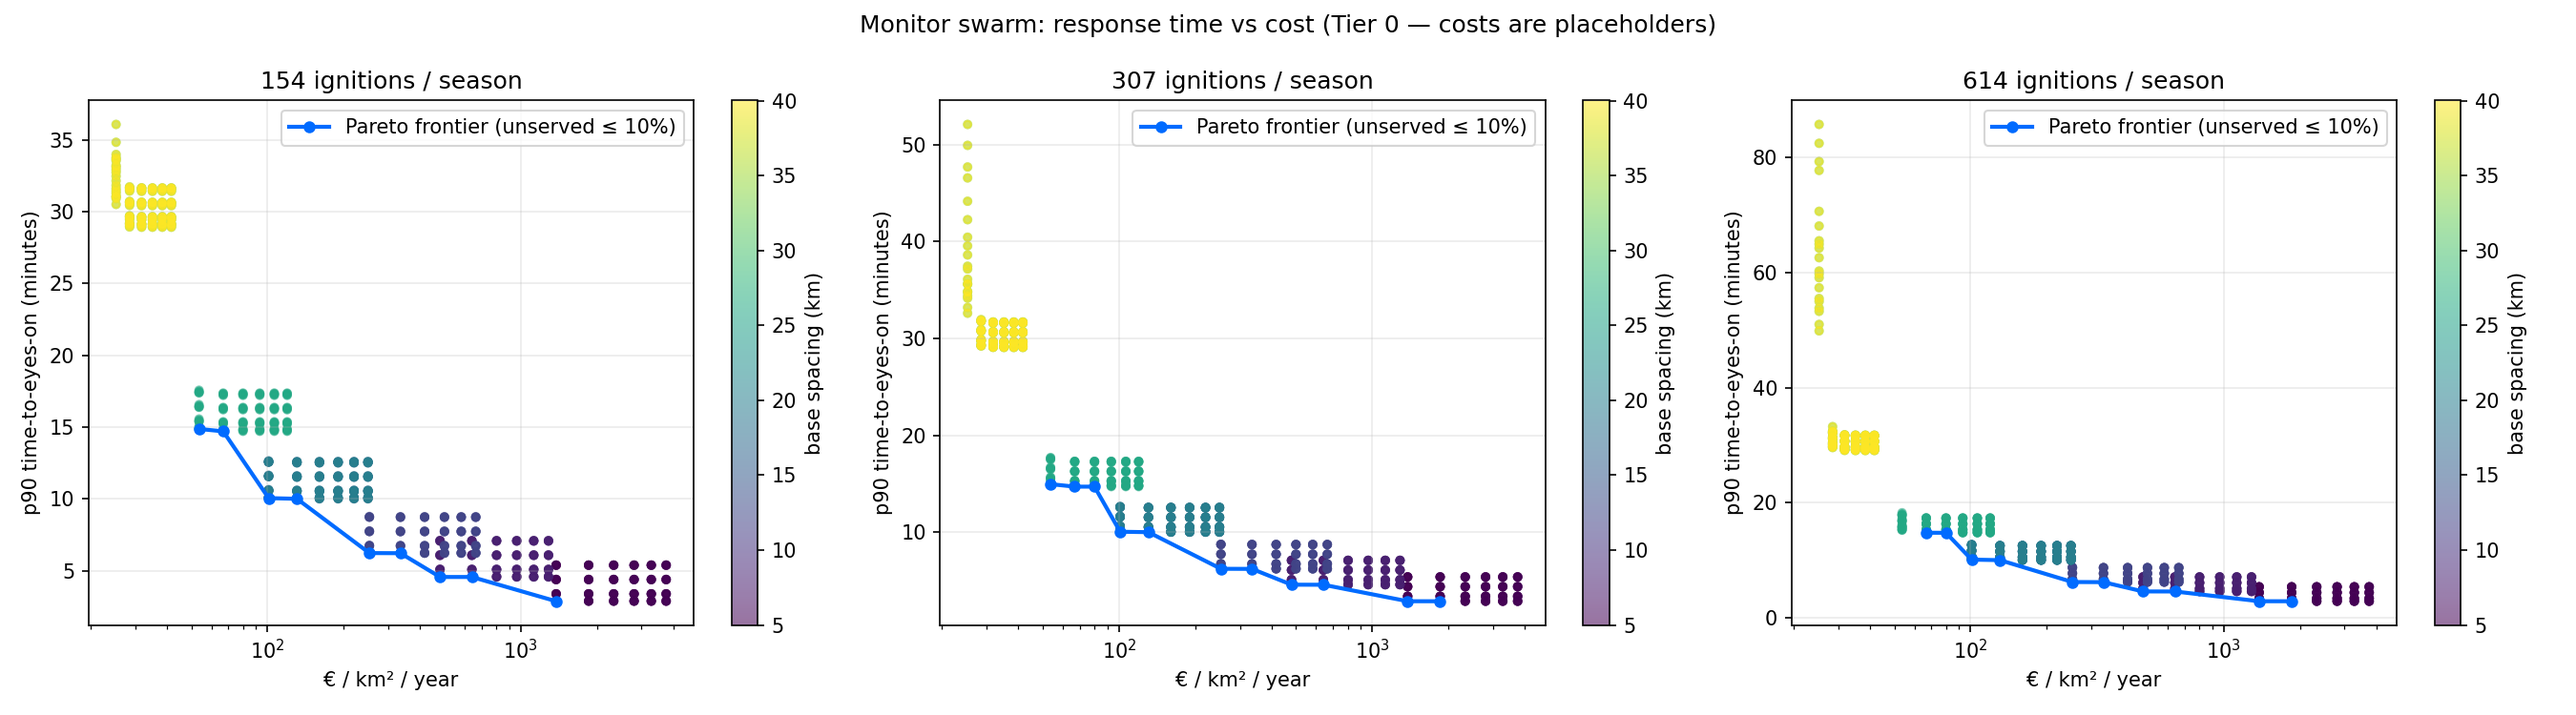
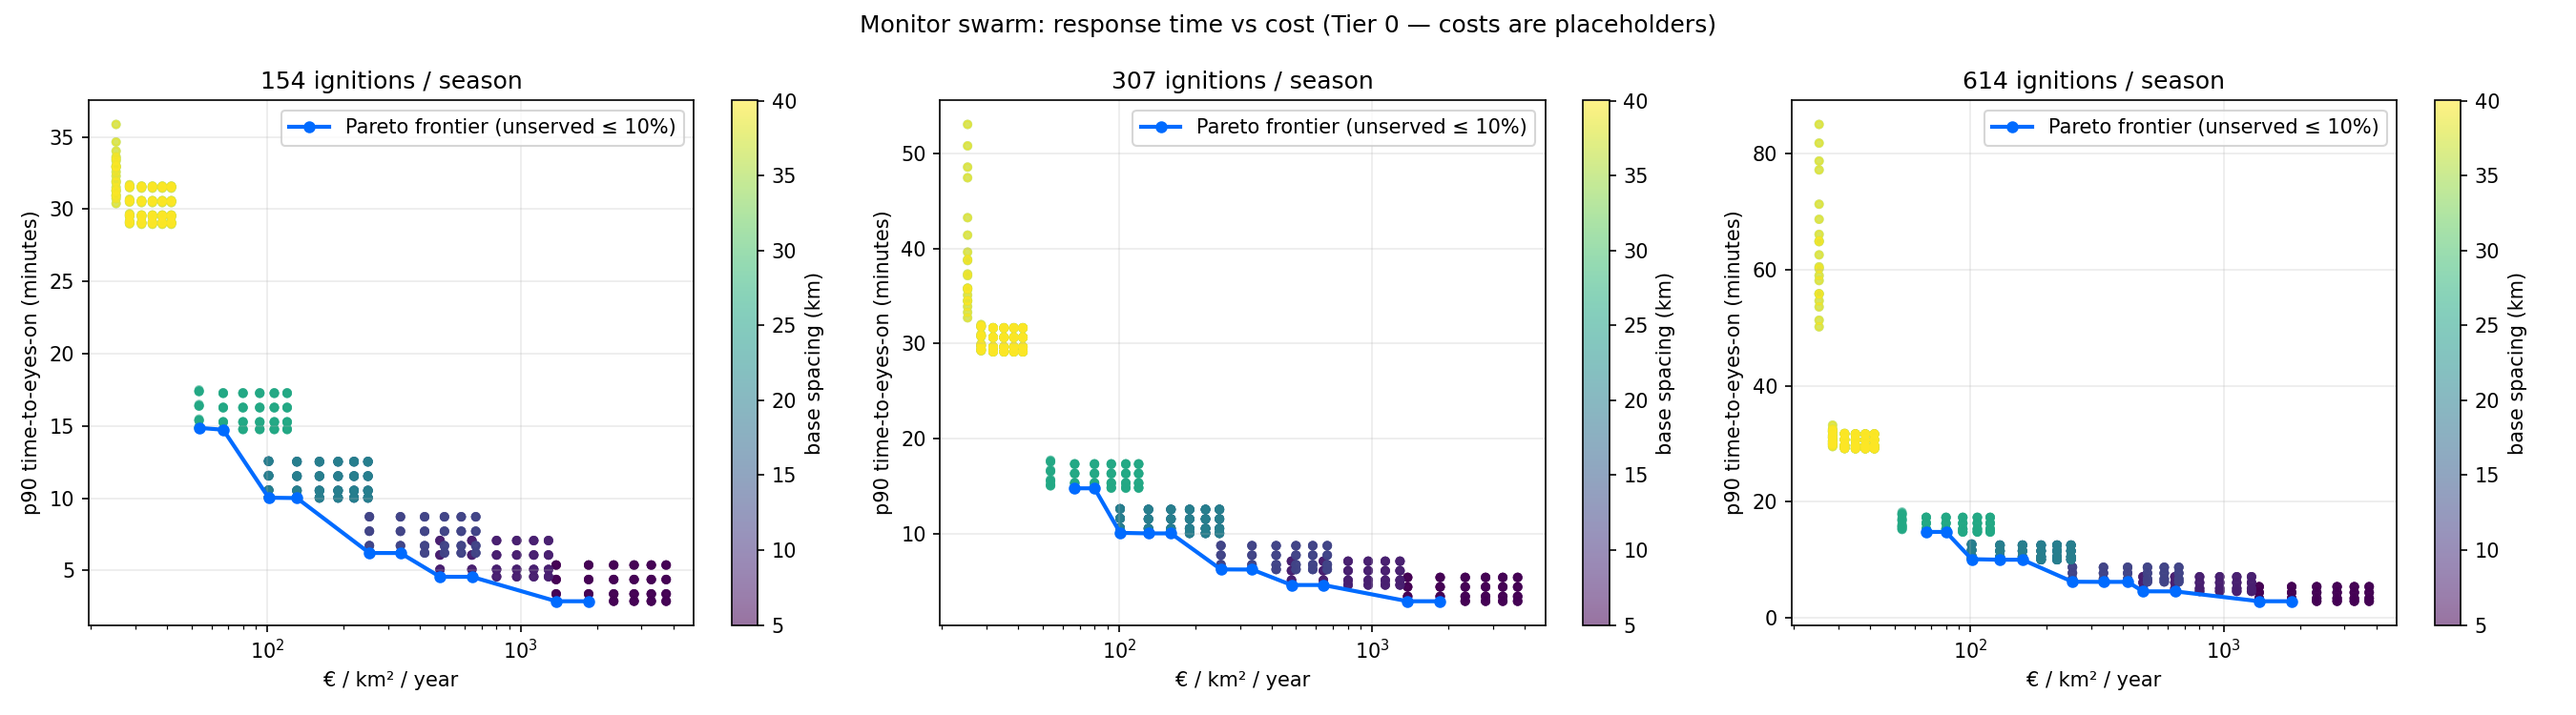
fix: run at 200 seasons, restoring the cheap end of the frontier
The EUR 54 point was withdrawn on suspicion of being a gate artifact. At
200 seasons that is now proven rather than suspected: the 4-base/1-drone
config fails max_unserved_share at every false-alarm rate (0.1022 to
0.1114), where at 50 seasons it passed one of five by 0.0015. It was
infeasible all along and sampling noise was letting it through.

With the noise gone the cheap end is real again. EUR 67/km2/yr (4 bases,
2 drones) passes at 0.089 to 0.093 across every fp_rate, so it is a
genuine frontier point and replaces the withdrawn row. It still misses
about 9% of fires, so EUR 101/km2/yr (9 bases, one drone, p90 10.08 min,
0.001 to 0.002 unserved across every fp_rate) remains the number to
present.

seasons_per_config stays at 200. The earlier ~4h projection that motivated
dropping to 50 was contention from six parallel research agents, not the
workload; on a quiet machine the same run takes ~30 min.

Claude-Session: https://claude.ai/code/session_01Q2iB77dJMSaEEz9tTzEKvp

diff --git a/sweep.py b/sweep.py
@@ -82,24 +82,15 @@ CONFIG = {
                                   # this share of real fires are excluded
                                   # from the Pareto frontier as infeasible
     # --- run control ---
-    "seasons_per_config": 50,     # Measured at ~5.9s/config at 200 seasons =
-                                  # ~4hr for the 2880-config sweep, far past
-                                  # the 30min guard. Cost rose because the
-                                  # ignition axis moved from old guesses
-                                  # (50/150/400) to the researched anchor
-                                  # (154/307/614): roughly double the alerts
-                                  # per season, which saturates drones and
-                                  # makes the earliest-arrival dispatch search
-                                  # do much more work per season, so runtime
-                                  # grew far more than proportionally with the
-                                  # ignition rate. 50 is the build-log
-                                  # documented prior setting (4m19s), not a
-                                  # new guess. Tradeoff: ~2x the sampling
-                                  # noise on individual config p90s vs 200;
-                                  # the Pareto frontier's SHAPE, which is what
-                                  # the sweep is used for, is robust to it.
-                                  # Use 200 (needs ~4hr) for a higher-quality
-                                  # final pass.
+    "seasons_per_config": 200,    # The 50-season run let a config sit ON the
+                                  # max_unserved_share gate and flip in and out
+                                  # of feasibility with fp_rate, which cannot
+                                  # affect response time. At 200 that config
+                                  # fails cleanly at every fp_rate, so the gate
+                                  # artifact was noise, not a result. Measured
+                                  # ~30 min on a quiet machine; an earlier
+                                  # ~4h projection was contention from parallel
+                                  # agents, not the workload. Keep 200.
     "seed": 20260811,
 }
 
